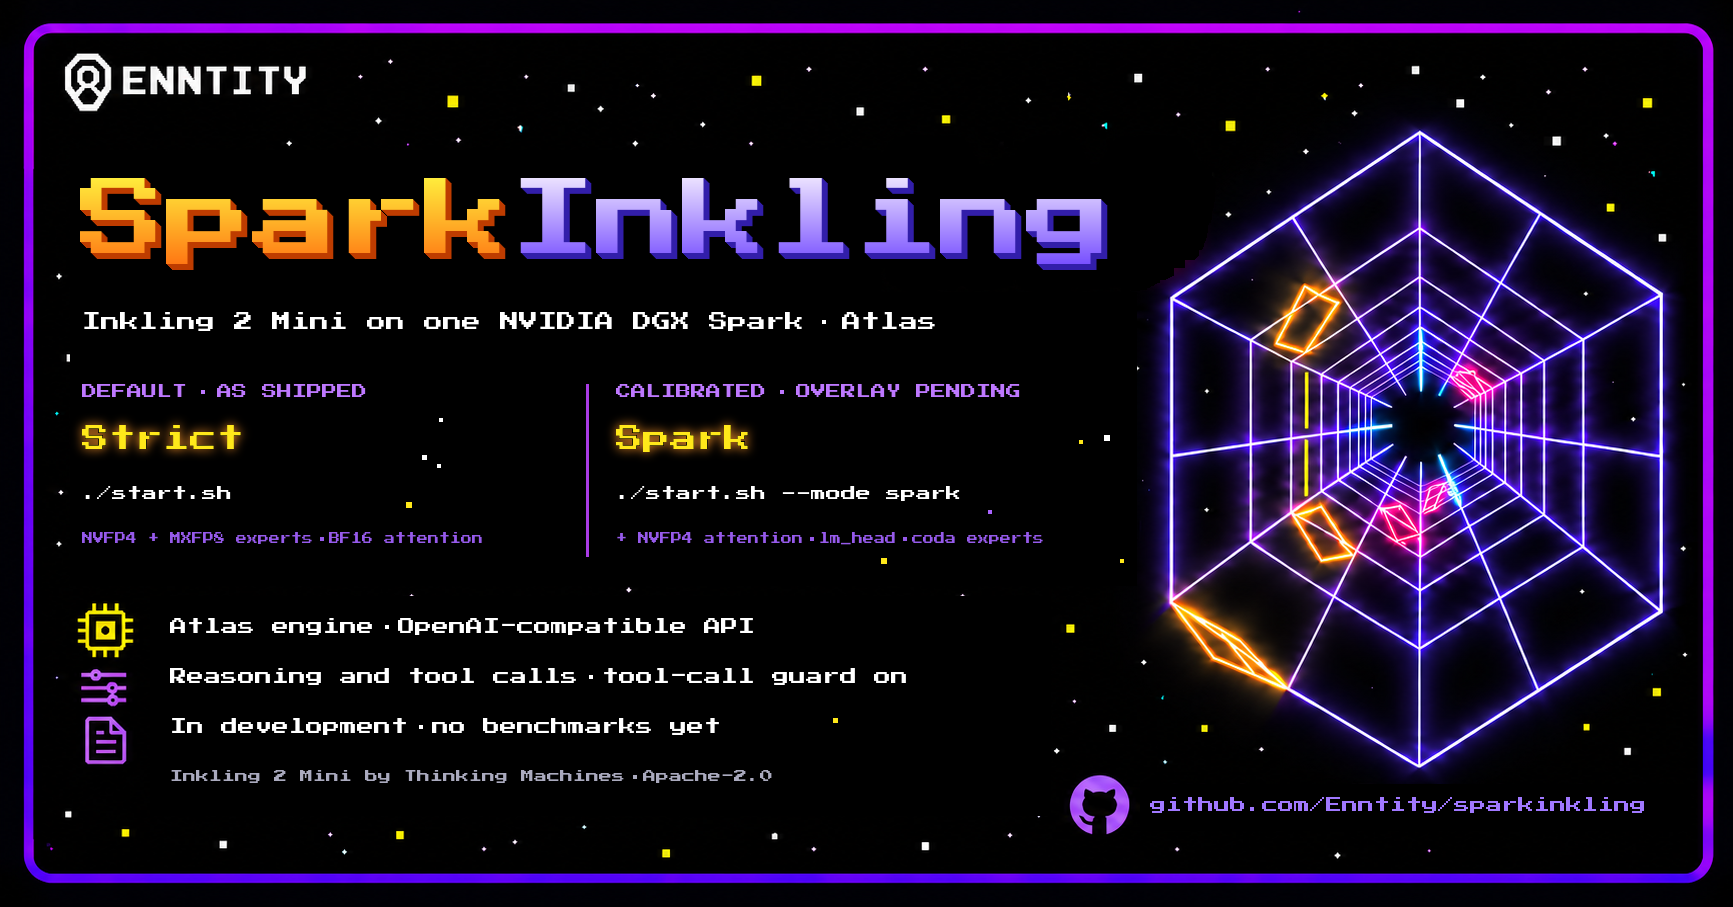
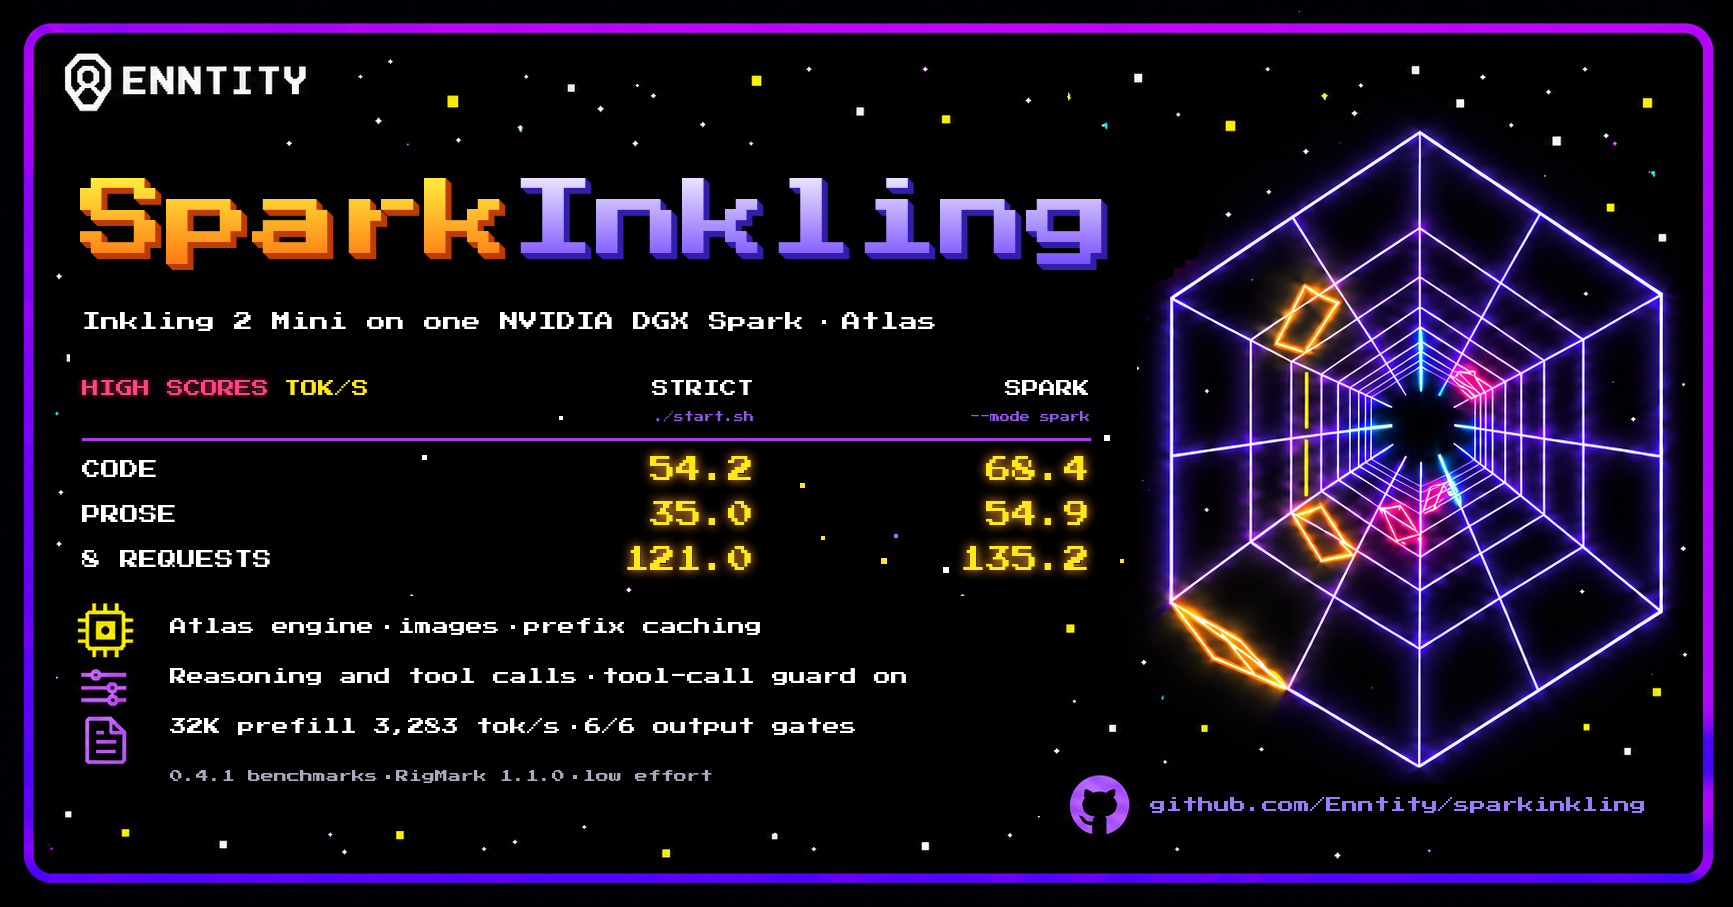
Cards: high scores for 0.4.1
The banner and social card now carry a high-score table for the two modes
(code, prose and eight-request tok/s) with 32K prefill and the output
gates, from the 0.4.1 RigMark medians, in place of the mode lanes and the
"no benchmarks yet" line.

diff --git a/docs/assets/make_cards.py b/docs/assets/make_cards.py
@@ -7,7 +7,8 @@
 BASE_DIR holds SparkQwen's `banner.png` and `social-preview.png`
 (Enntity/sparkqwen docs/assets at commit bd26c6d). The frame, starfield,
 logo, icons and tunnel are kept as they are; the title, version, subtitle,
-lanes, supporting lines and URL are painted out and the new text is set in
+lanes, supporting lines and URL are painted out and the new text (a
+high-score table where the lanes were) is set in
 Press Start 2P (SIL OFL 1.1, not shipped here). Adapted from SparkQwen's
 make_cards.py. Needs Pillow. The JPEG is a format export of the social card.
 """
@@ -126,27 +127,40 @@ class Card:
         self.inked.append((x, y0, x + 2, y1))
 
 
-def lanes(card, x0, x1, y, k, ky):
-    """The two modes between x0 and x1 from y down; k scales the type, ky the leading."""
-    mid = (x0 + x1) // 2
-    card.rule(mid - int(18 * k), y, y + int(160 * ky))
-    lane = [
-        (x0, ["DEFAULT", "AS SHIPPED"], "Strict", "./start.sh",
-         ["NVFP4 + MXFP8 experts", "BF16 attention"]),
-        (mid + int(18 * k), ["CALIBRATED", "OVERLAY PENDING"], "Spark", "./start.sh --mode spark",
-         ["+ NVFP4 attention", "lm_head", "coda experts"]),
-    ]
-    for x, label, name, cmd, detail in lane:
-        card.text((x, y), label, int(19 * k), PURPLE)
-        card.text((x, y + int(38 * ky)), [name], int(33 * k), YELLOW, glow=ORANGE)
-        card.text((x, y + int(95 * ky)), [cmd], int(18 * k), WHITE)
-        card.text((x, y + int(138 * ky)), detail, int(14 * k), VIOLET, gap=int(10 * k))
+PINK = (255, 70, 120)
+# SparkInkling 0.4.1, RigMark 1.1.0, low effort, medians, tok/s
+# (results/2026-11-23-release-0.4.1): label, Strict, Spark.
+SCORES = [("CODE", "54.2", "68.4"), ("PROSE", "35.0", "54.9"), ("8 REQUESTS", "121.0", "135.2")]
 
 
-LINES = (["Atlas engine", "OpenAI-compatible API"],
+def scores(card, x0, y, k, ky):
+    """The high-score table from (x0, y): a row per workload, a column per
+    mode with its launch command; k scales the type, ky the leading."""
+    head, small, label, num = int(21 * k), int(13 * k), int(23 * k), int(31 * k)
+    cols = [("STRICT", "./start.sh", x0 + int(800 * k)), ("SPARK", "--mode spark", x0 + int(1200 * k))]
+
+    def right(xr, yy, s, size, color, glow=None):
+        card.text((xr - int(card.font(size).getlength(s)), yy), [s], size, color, glow=glow)
+
+    end = card.text((x0, y), ["HIGH SCORES"], head, PINK, glow=(150, 20, 70))
+    card.text((end + int(18 * k), y), ["TOK/S"], head, YELLOW)
+    for name, cmd, xr in cols:
+        right(xr, y, name, head, WHITE)
+        right(xr, y + int(30 * ky), cmd, small, VIOLET)
+    line = y + int(54 * ky)
+    card.draw.rectangle((x0, line, cols[-1][2], line + 2), fill=(170, 60, 230))
+    card.inked.append((x0, line, cols[-1][2], line + 2))
+    for row, (name, strict, spark) in enumerate(SCORES):
+        yy = y + int(72 * ky) + row * int(42 * ky)
+        card.text((x0, yy + (num - label) // 2), [name], label, WHITE)
+        for value, (_, _, xr) in zip((strict, spark), cols):
+            right(xr, yy, value, num, YELLOW, glow=ORANGE)
+
+
+LINES = (["Atlas engine", "images", "prefix caching"],
          ["Reasoning and tool calls", "tool-call guard on"],
-         ["In development", "no benchmarks yet"])
-SOURCE = ["Inkling 2 Mini by Thinking Machines", "Apache-2.0"]
+         ["32K prefill 3,283 tok/s", "6/6 output gates"])
+SOURCE = ["0.4.1 benchmarks", "RigMark 1.1.0", "low effort"]
 URL = "github.com/Enntity/sparkinkling"
 
 
@@ -159,7 +173,7 @@ def banner(base, font, out):
     c.clear((1550, 636, 2110, 688), stars=False)  # the URL (the GitHub mark stays)
     c.title((88, 112), [("Spark", SPARK), ("Inkling", INKLING)], 112)
     c.text((88, 270), ["Inkling 2 Mini on one NVIDIA DGX Spark", "Atlas"], 23, WHITE)
-    lanes(c, 100, 1340, 330, 1.0, 1.0)
+    scores(c, 100, 326, 1.0, 1.0)
     for y, parts in zip((537, 580, 624), LINES):
         c.text((172, y), parts, 20, WHITE)
     c.text((172, 668), SOURCE, 14, DIM, gap=10)
@@ -181,7 +195,7 @@ def social(base, font, out):
     c.clear((1140, 784, 1690, 830), stars=False)  # the URL (the GitHub mark stays)
     c.title((80, 178), [("Spark", SPARK), ("Inkling", INKLING)], 86)
     c.text((82, 312), ["Inkling 2 Mini on one NVIDIA DGX Spark", "Atlas"], 19, WHITE)
-    lanes(c, 82, 1120, 384, 0.84, 1.08)
+    scores(c, 82, 380, 0.84, 1.08)
     for y, parts in zip((618, 668, 718), LINES):
         c.text((170, y), parts, 17, WHITE, gap=12)
     c.text((170, 770), SOURCE, 13, DIM, gap=9)

diff --git a/docs/assets/README.md b/docs/assets/README.md
@@ -5,13 +5,15 @@
 matching social card (1733 × 907); `social-preview.jpg` is its same-dimension
 JPEG export, below 1 MB.
 
-The cards name the product and its two modes: Strict, the default, which
-serves the checkpoint as shipped (`./start.sh`), and Spark, which adds the
-calibrated NVFP4 overlay (`./start.sh --mode spark`; the overlay is pending
-publication). They carry no version number and no measured figure: nothing
-has been benchmarked yet.
+The cards name the product and carry a high-score table for its two modes,
+Strict (`./start.sh`) and Spark (`--mode spark`): code decode, prose decode
+and eight short-code requests in tok/s, with cold 32K prefill and the output
+gates below. The figures are SparkInkling 0.4.1's RigMark medians
+([`results/2026-11-23-release-0.4.1`](../../results/2026-11-23-release-0.4.1/RESULT.md));
+`SCORES`, `LINES` and `SOURCE` in the script hold them, so a new release
+changes those and re-renders.
 
-They were composed on 2026-11-21 by [`make_cards.py`](make_cards.py) from
+They were first composed on 2026-11-21, and given the table on 2026-11-23, by [`make_cards.py`](make_cards.py) from
 SparkQwen's cards (Enntity/sparkqwen `docs/assets` at commit `bd26c6d`). The
 script keeps the purple arcade frame, starfield, Enntity logo, icons, wireframe
 tunnel and GitHub mark, paints out the title, version, subtitle, lanes,
